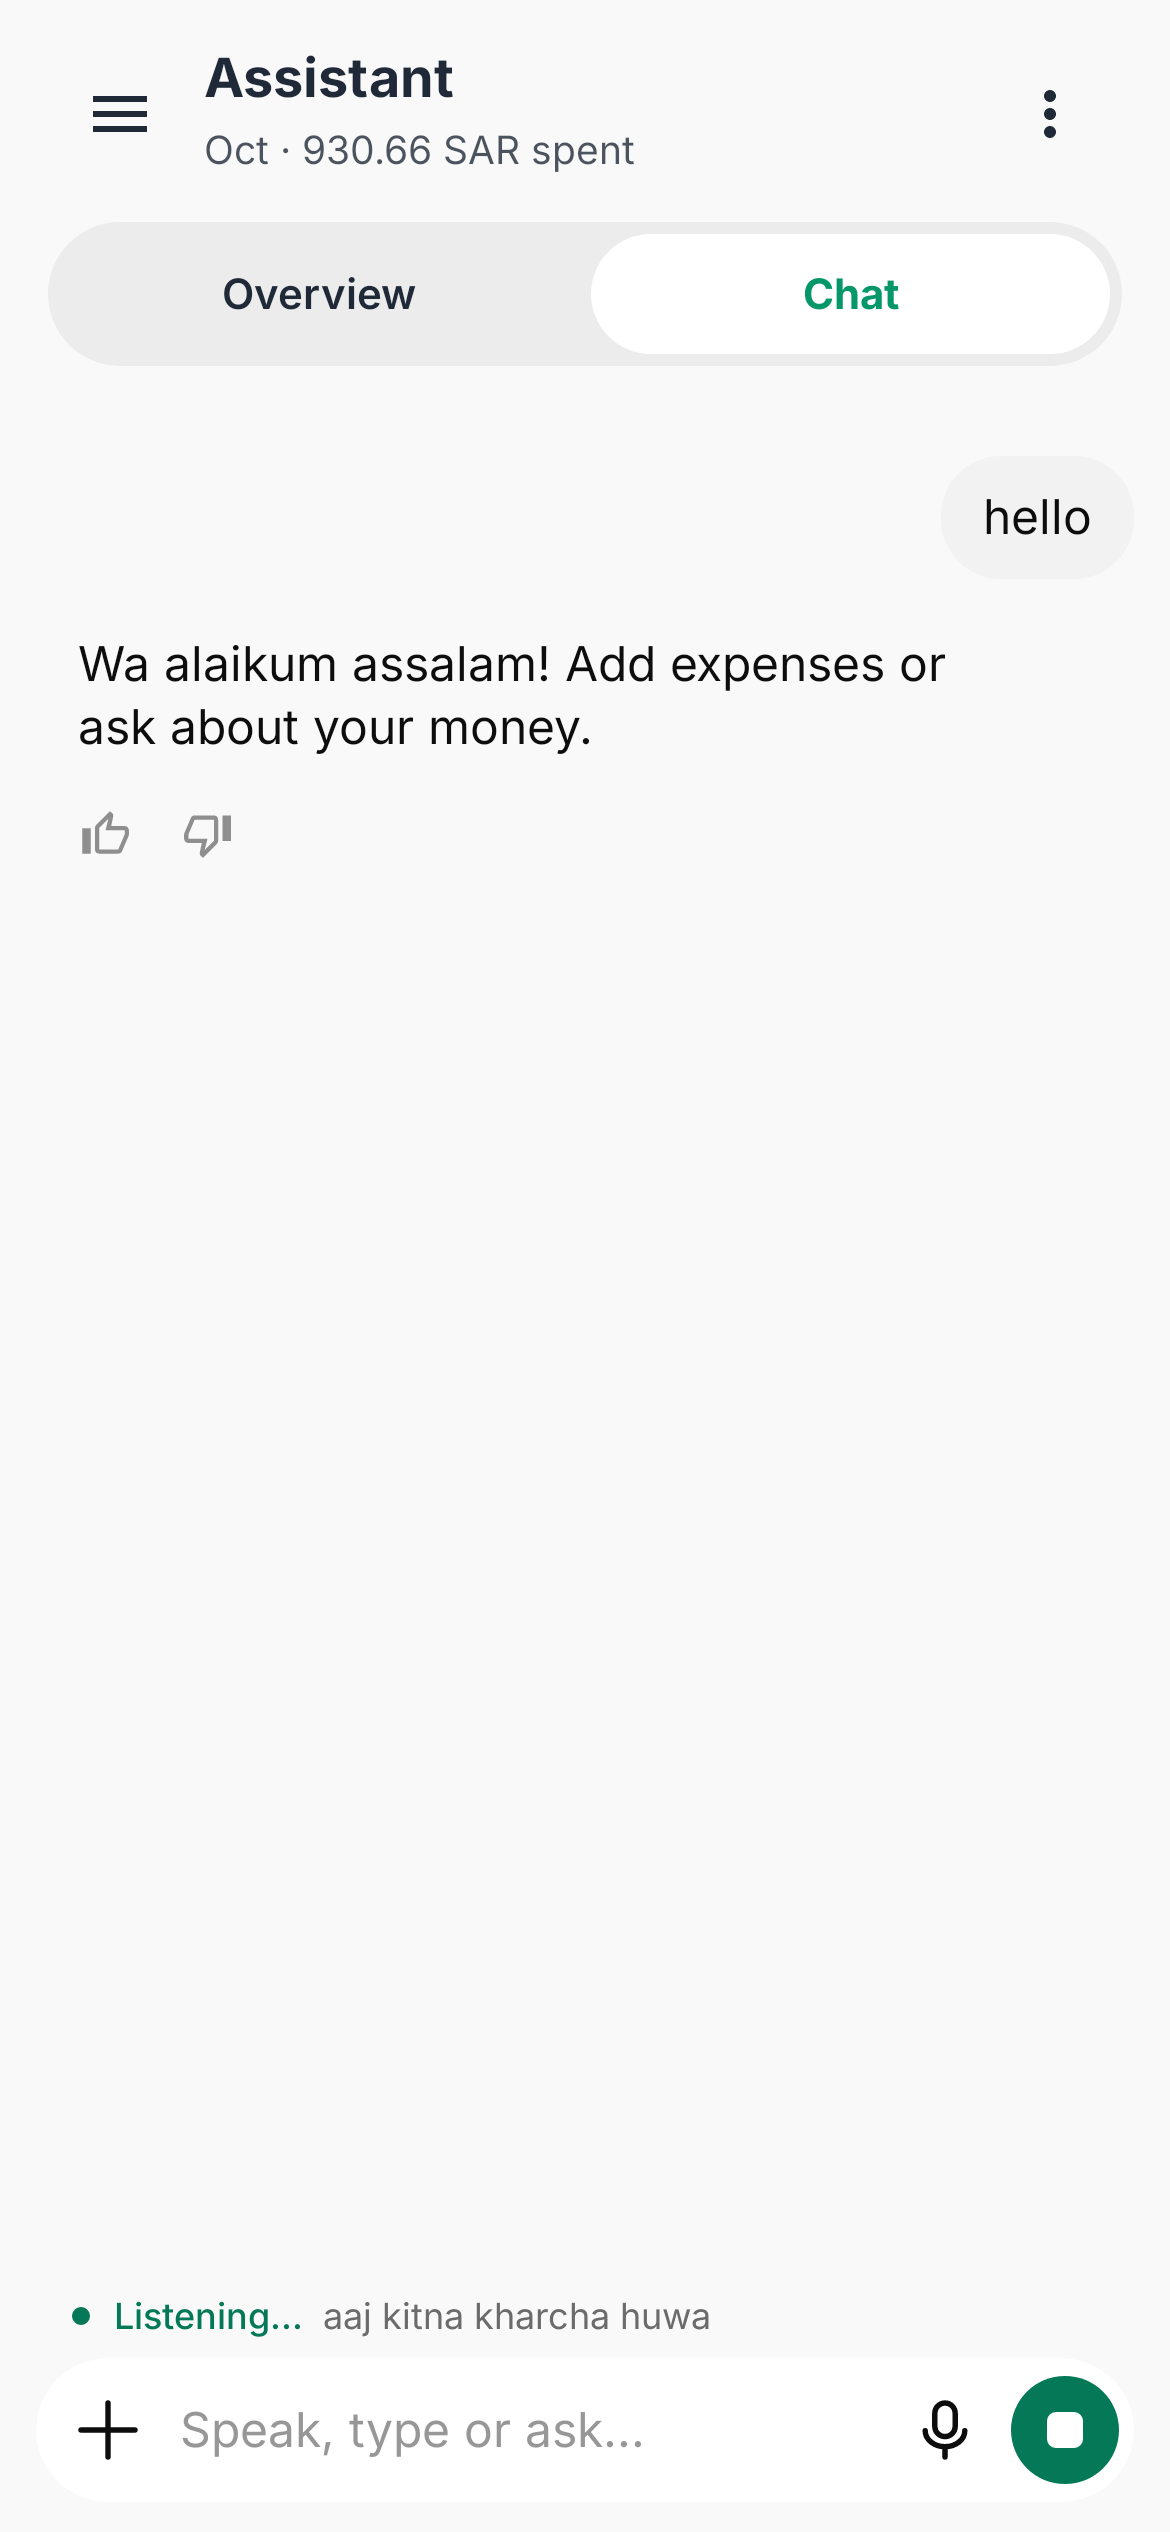
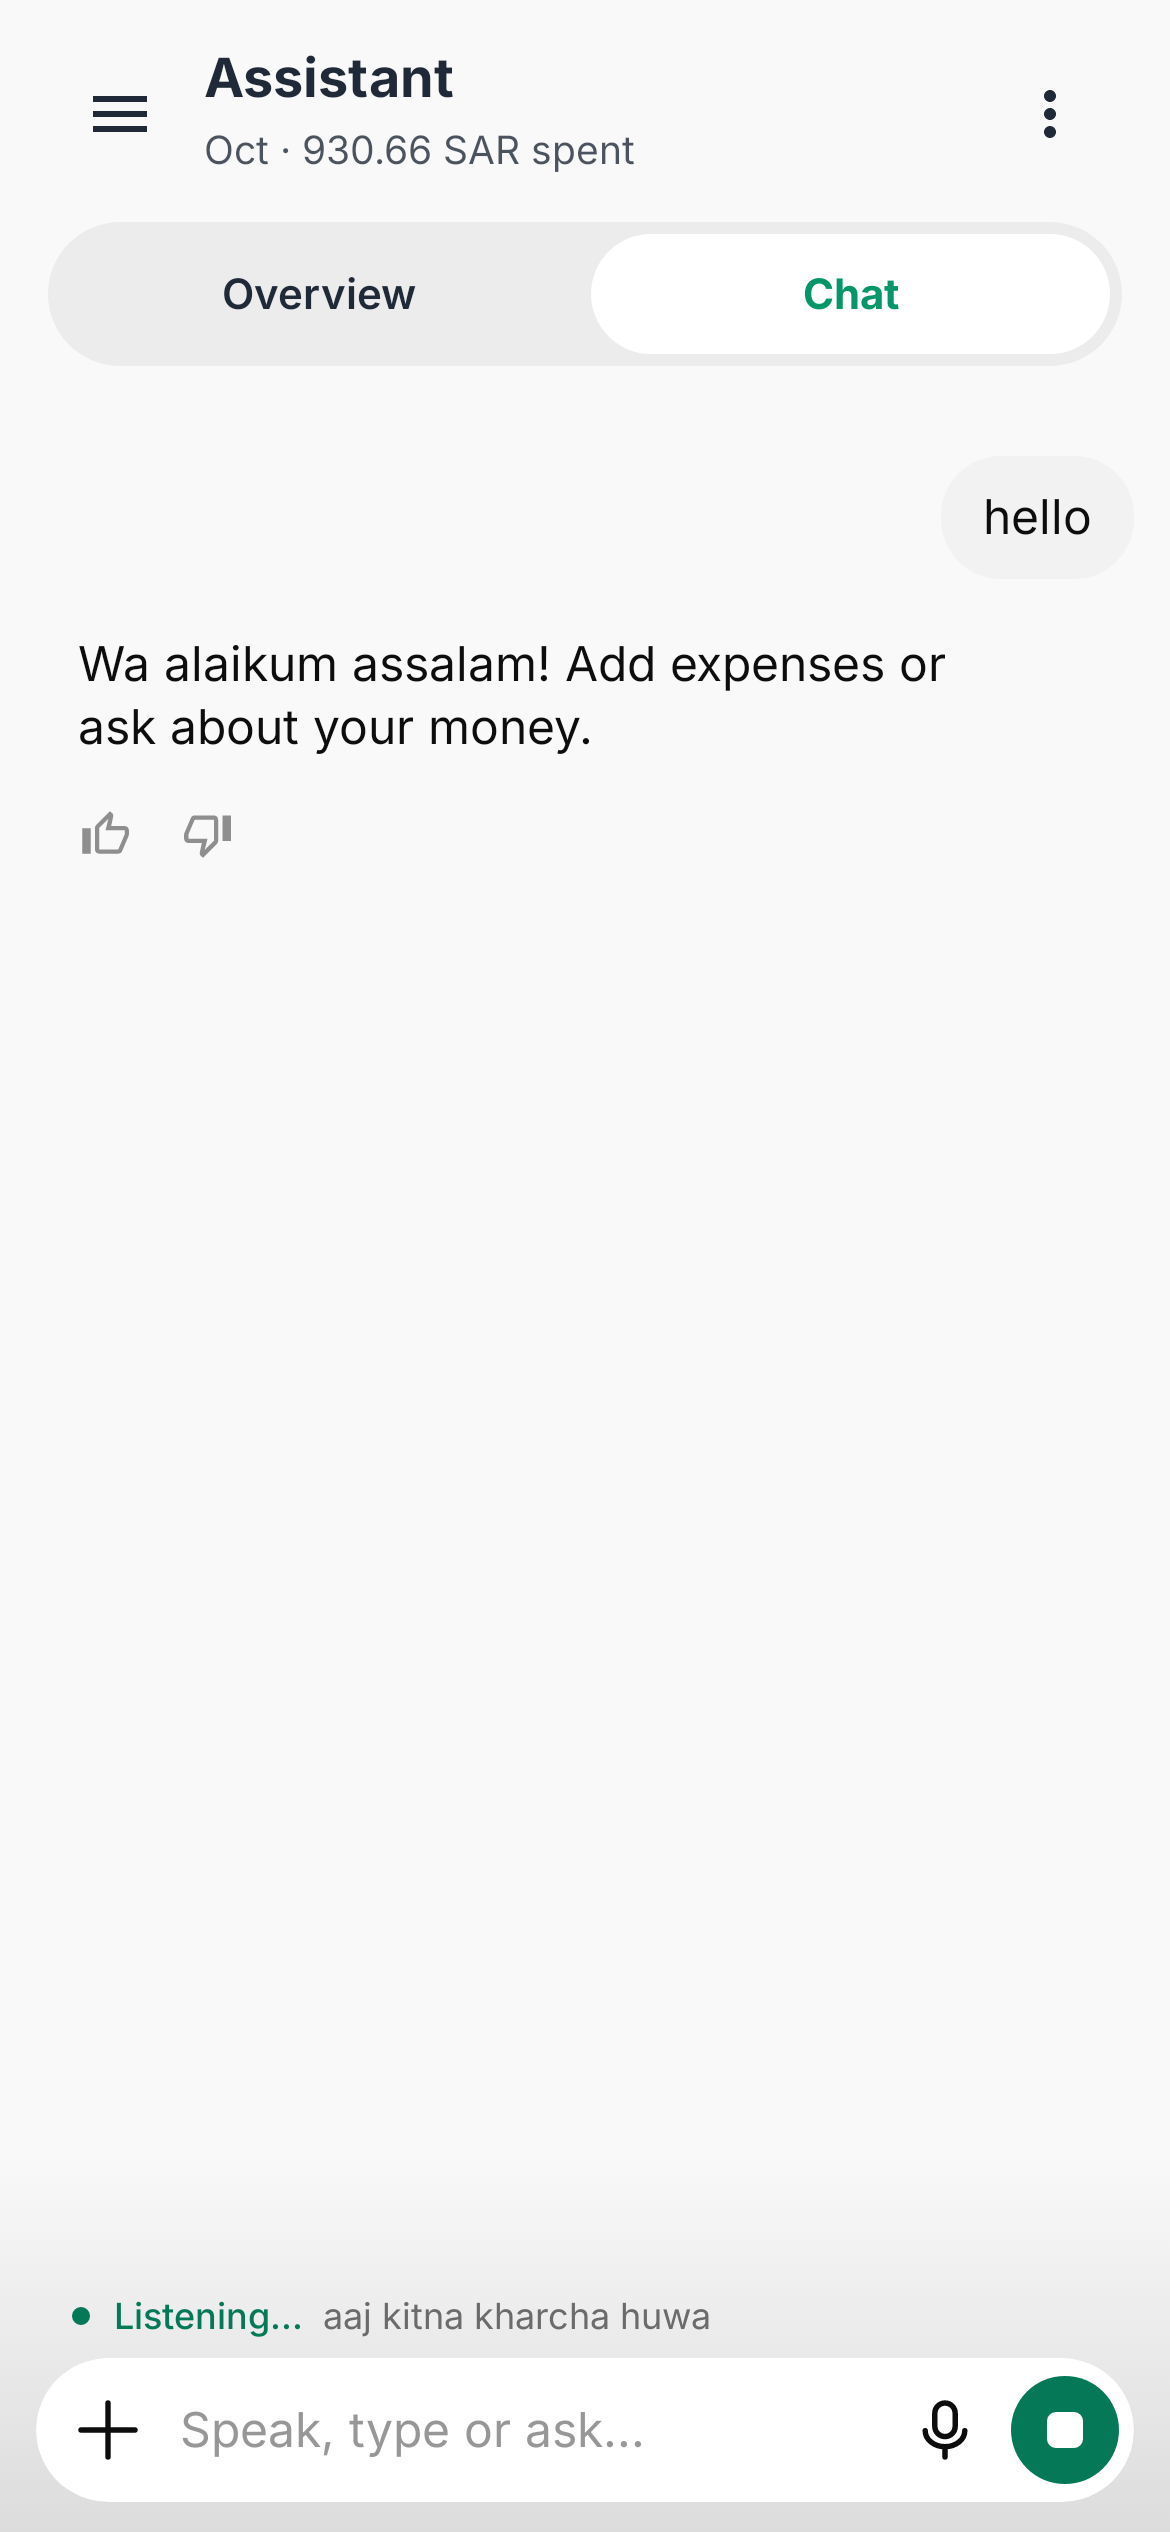
[build-apk] ChatGPT-style shade behind the message bar
Behind the white message bar on Home and Chat the page now fades to a
slightly darker grey at the bottom, like ChatGPT, so the bar stands out
without an outline.

Claude-Session: https://claude.ai/code/session_01U3zDcCyo1ydspb8RTX8ptG

Changed region(s): [[0.0, 0.9672, 1.0, 1.0]]

diff --git a/app/src/main/java/com/bolkhata/app/AppParts.kt b/app/src/main/java/com/bolkhata/app/AppParts.kt
@@ -28,6 +28,9 @@ import androidx.compose.runtime.*
 import androidx.compose.ui.Alignment
 import androidx.compose.ui.Modifier
 import androidx.compose.ui.draw.clip
+import androidx.compose.ui.graphics.Brush
+import androidx.compose.ui.graphics.lerp
+import androidx.compose.ui.graphics.luminance
 import androidx.compose.ui.graphics.Color
 import androidx.compose.ui.text.SpanStyle
 import androidx.compose.ui.text.buildAnnotatedString
@@ -68,7 +71,10 @@ internal fun InputBar(
     val ink = MaterialTheme.colorScheme.onSurface
     val talking = voice?.on == true
     val hint = MaterialTheme.colorScheme.onSurfaceVariant.copy(alpha = 0.7f)
-    Column(Modifier.fillMaxWidth().background(bg)) {
+    // Like ChatGPT: the page darkens slightly towards the bottom, so the white bar stands out without an outline.
+    val shade = lerp(bg, if (bg.luminance() > 0.5f) Color.Black else Color.White, 0.09f)
+    Column(Modifier.fillMaxWidth().background(Brush.verticalGradient(listOf(bg.copy(alpha = 0f), shade)))) {
+        Spacer(Modifier.height(40.dp))
         if (talking) VoiceCaption(voice!!.status, voice.heard, Modifier.padding(top = 6.dp))
         Box(Modifier.fillMaxWidth().navigationBarsPadding().padding(start = 12.dp, end = 12.dp, top = 6.dp, bottom = 10.dp)) {
             // Like ChatGPT's bar: a white pill with a soft shadow and no outline, on the off-white page.
